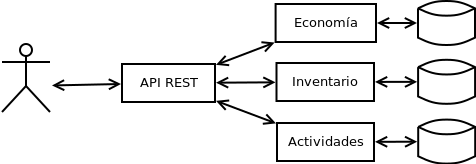
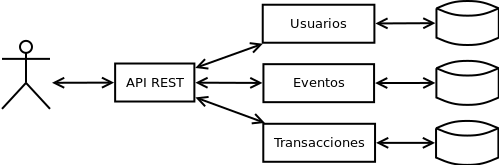
Cambiados microservicios

Changed region(s): [[0.0, 0.0, 1.0, 1.0], [0.8824, 0.2134, 1.0, 0.3049], [0.9706, 0.0, 1.0, 0.0915]]

diff --git a/index.md b/index.md
@@ -26,9 +26,9 @@ El núcleo de esta arquitecutra es una API REST programada en [Flask](http://fla
 
 Se podrían tener tres microservicios actuando de forma independiente los unos con los otros (correspondientes a cada uno de los módulos de la aplicación):
 
-- Gestión económica
-- Gestión de inventario
-- Gestión de actividades
+- Gestión de usuarios
+- Gestión de eventos
+- Gestión de transacciones
 
 Cada uno de estos con su correspondiente base de datos.
 

diff --git a/README.md b/README.md
@@ -22,9 +22,9 @@ El núcleo de esta arquitecutra es una API REST programada en [Flask](http://fla
 
 Se podrían tener tres microservicios actuando de forma independiente los unos con los otros (correspondientes a cada uno de los módulos de la aplicación):
 
-- Gestión económica
-- Gestión de inventario
-- Gestión de actividades
+- Gestión de usuarios
+- Gestión de eventos
+- Gestión de usuarios
 
 Cada uno de estos con su correspondiente base de datos.
 
